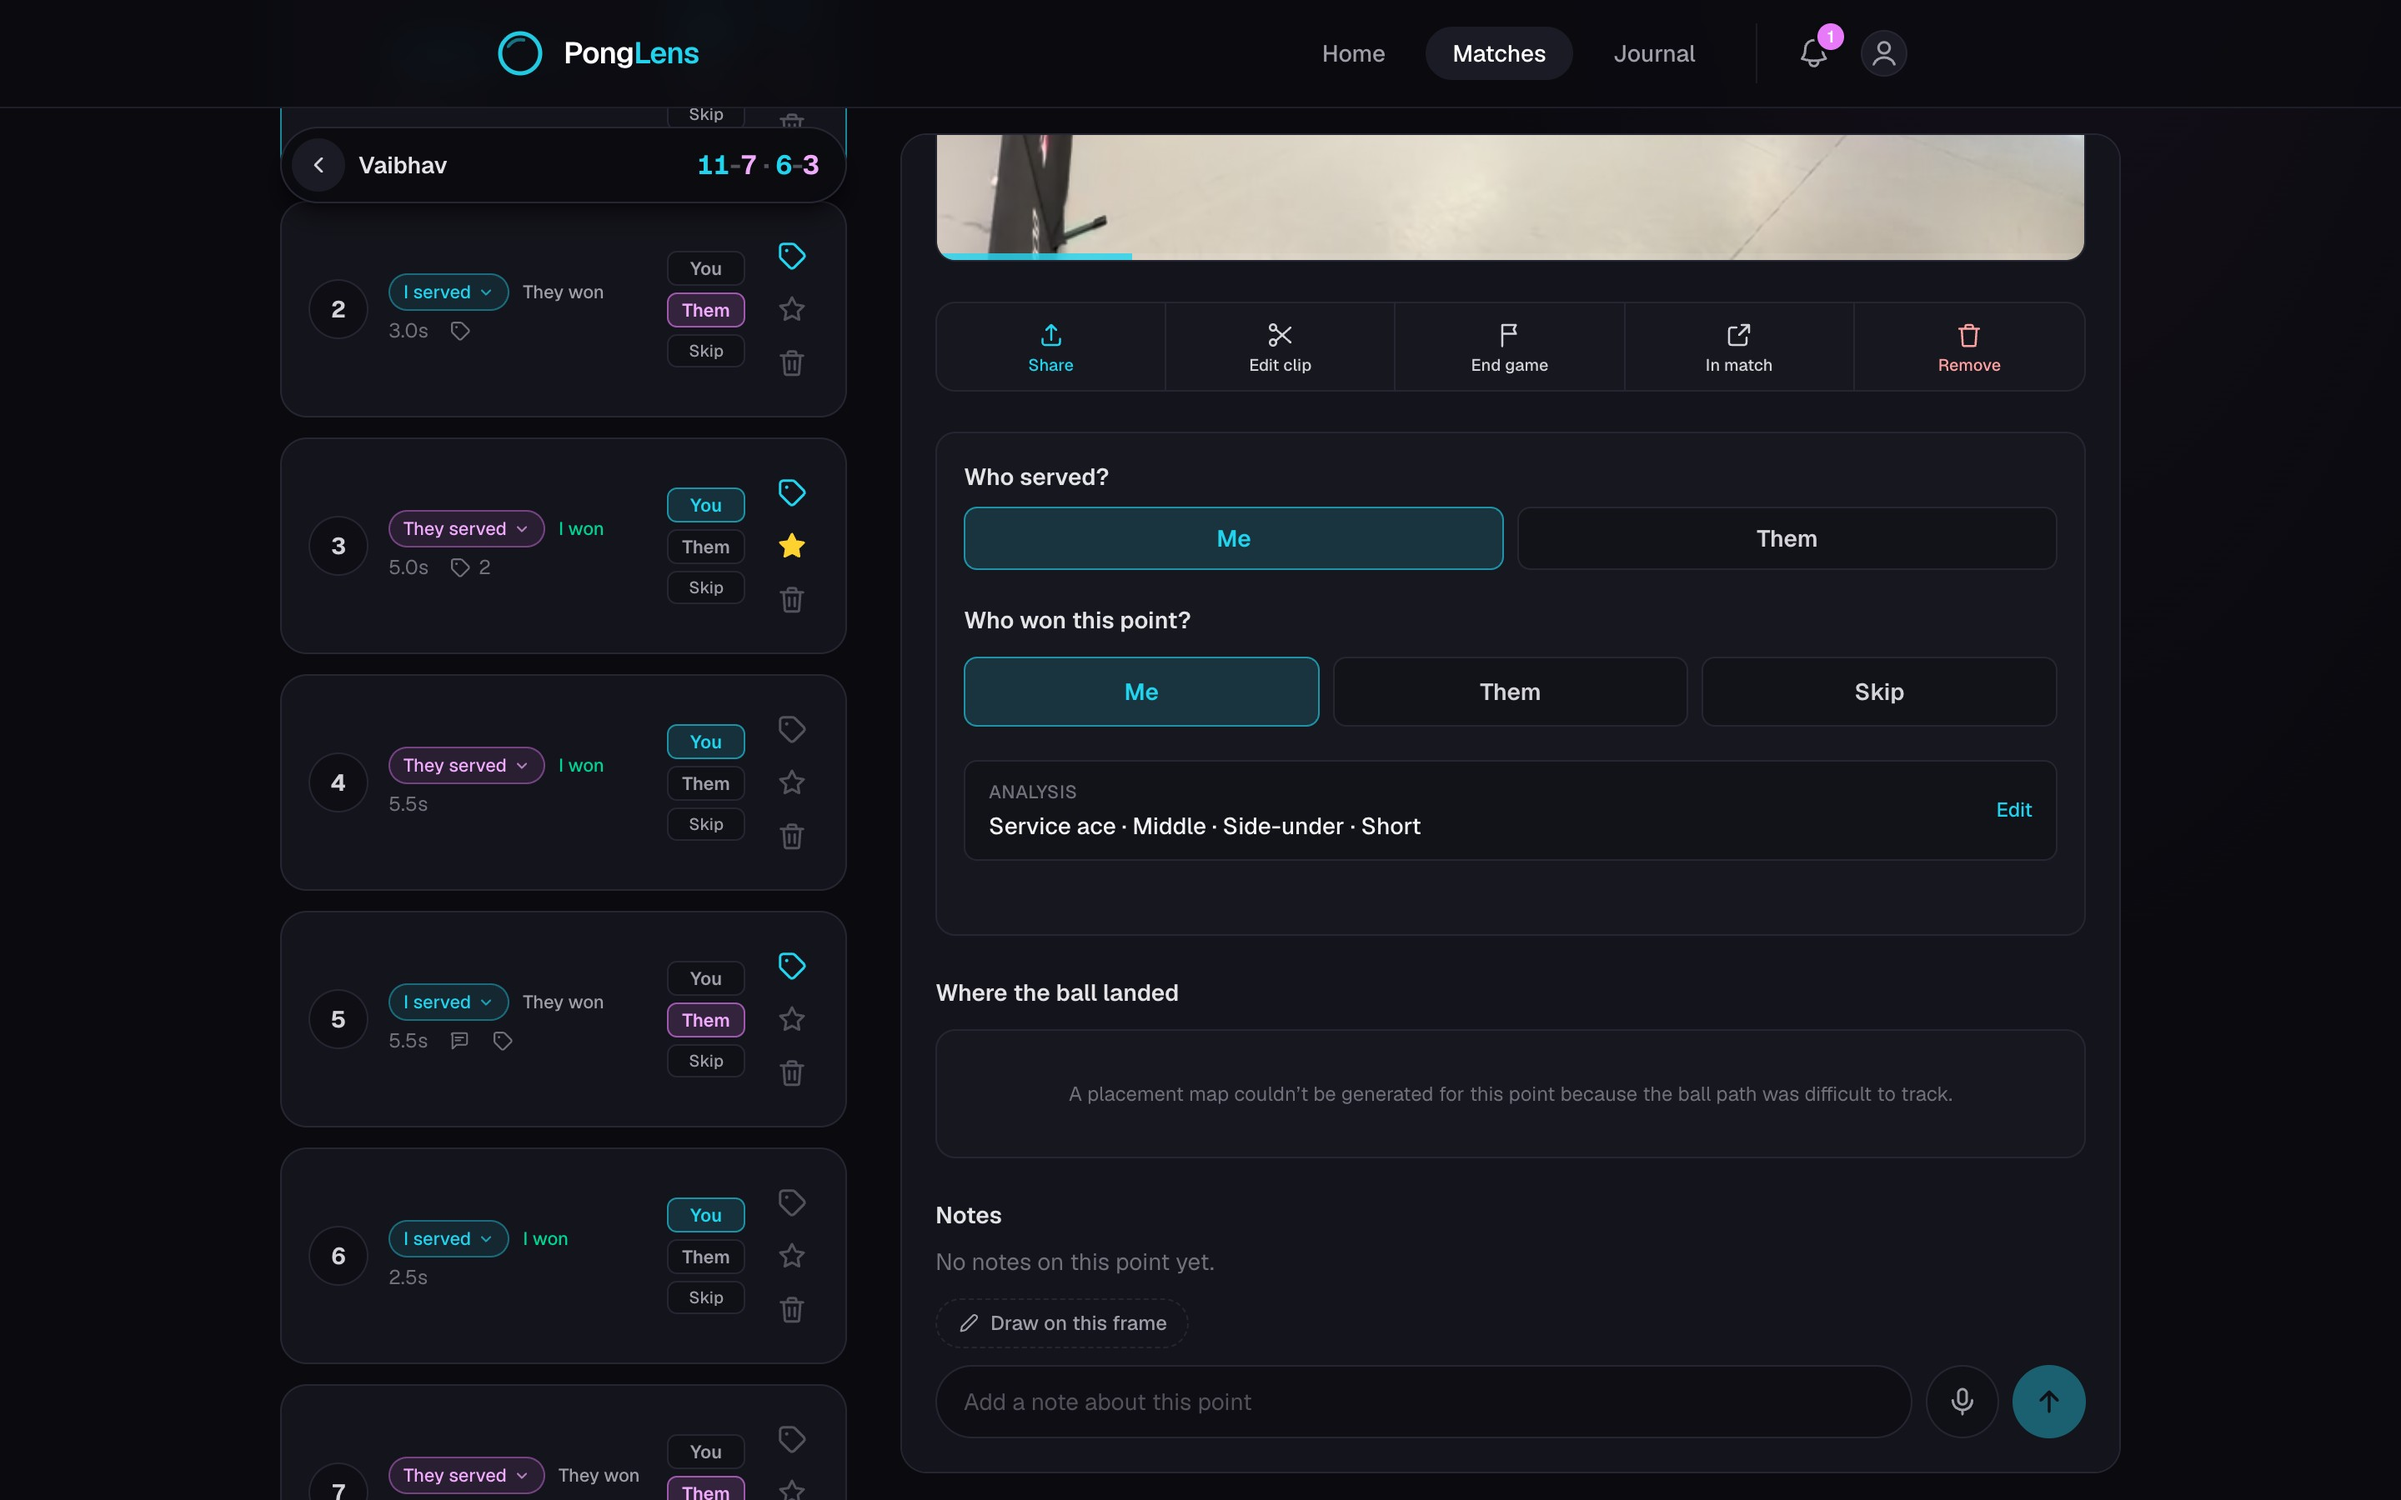
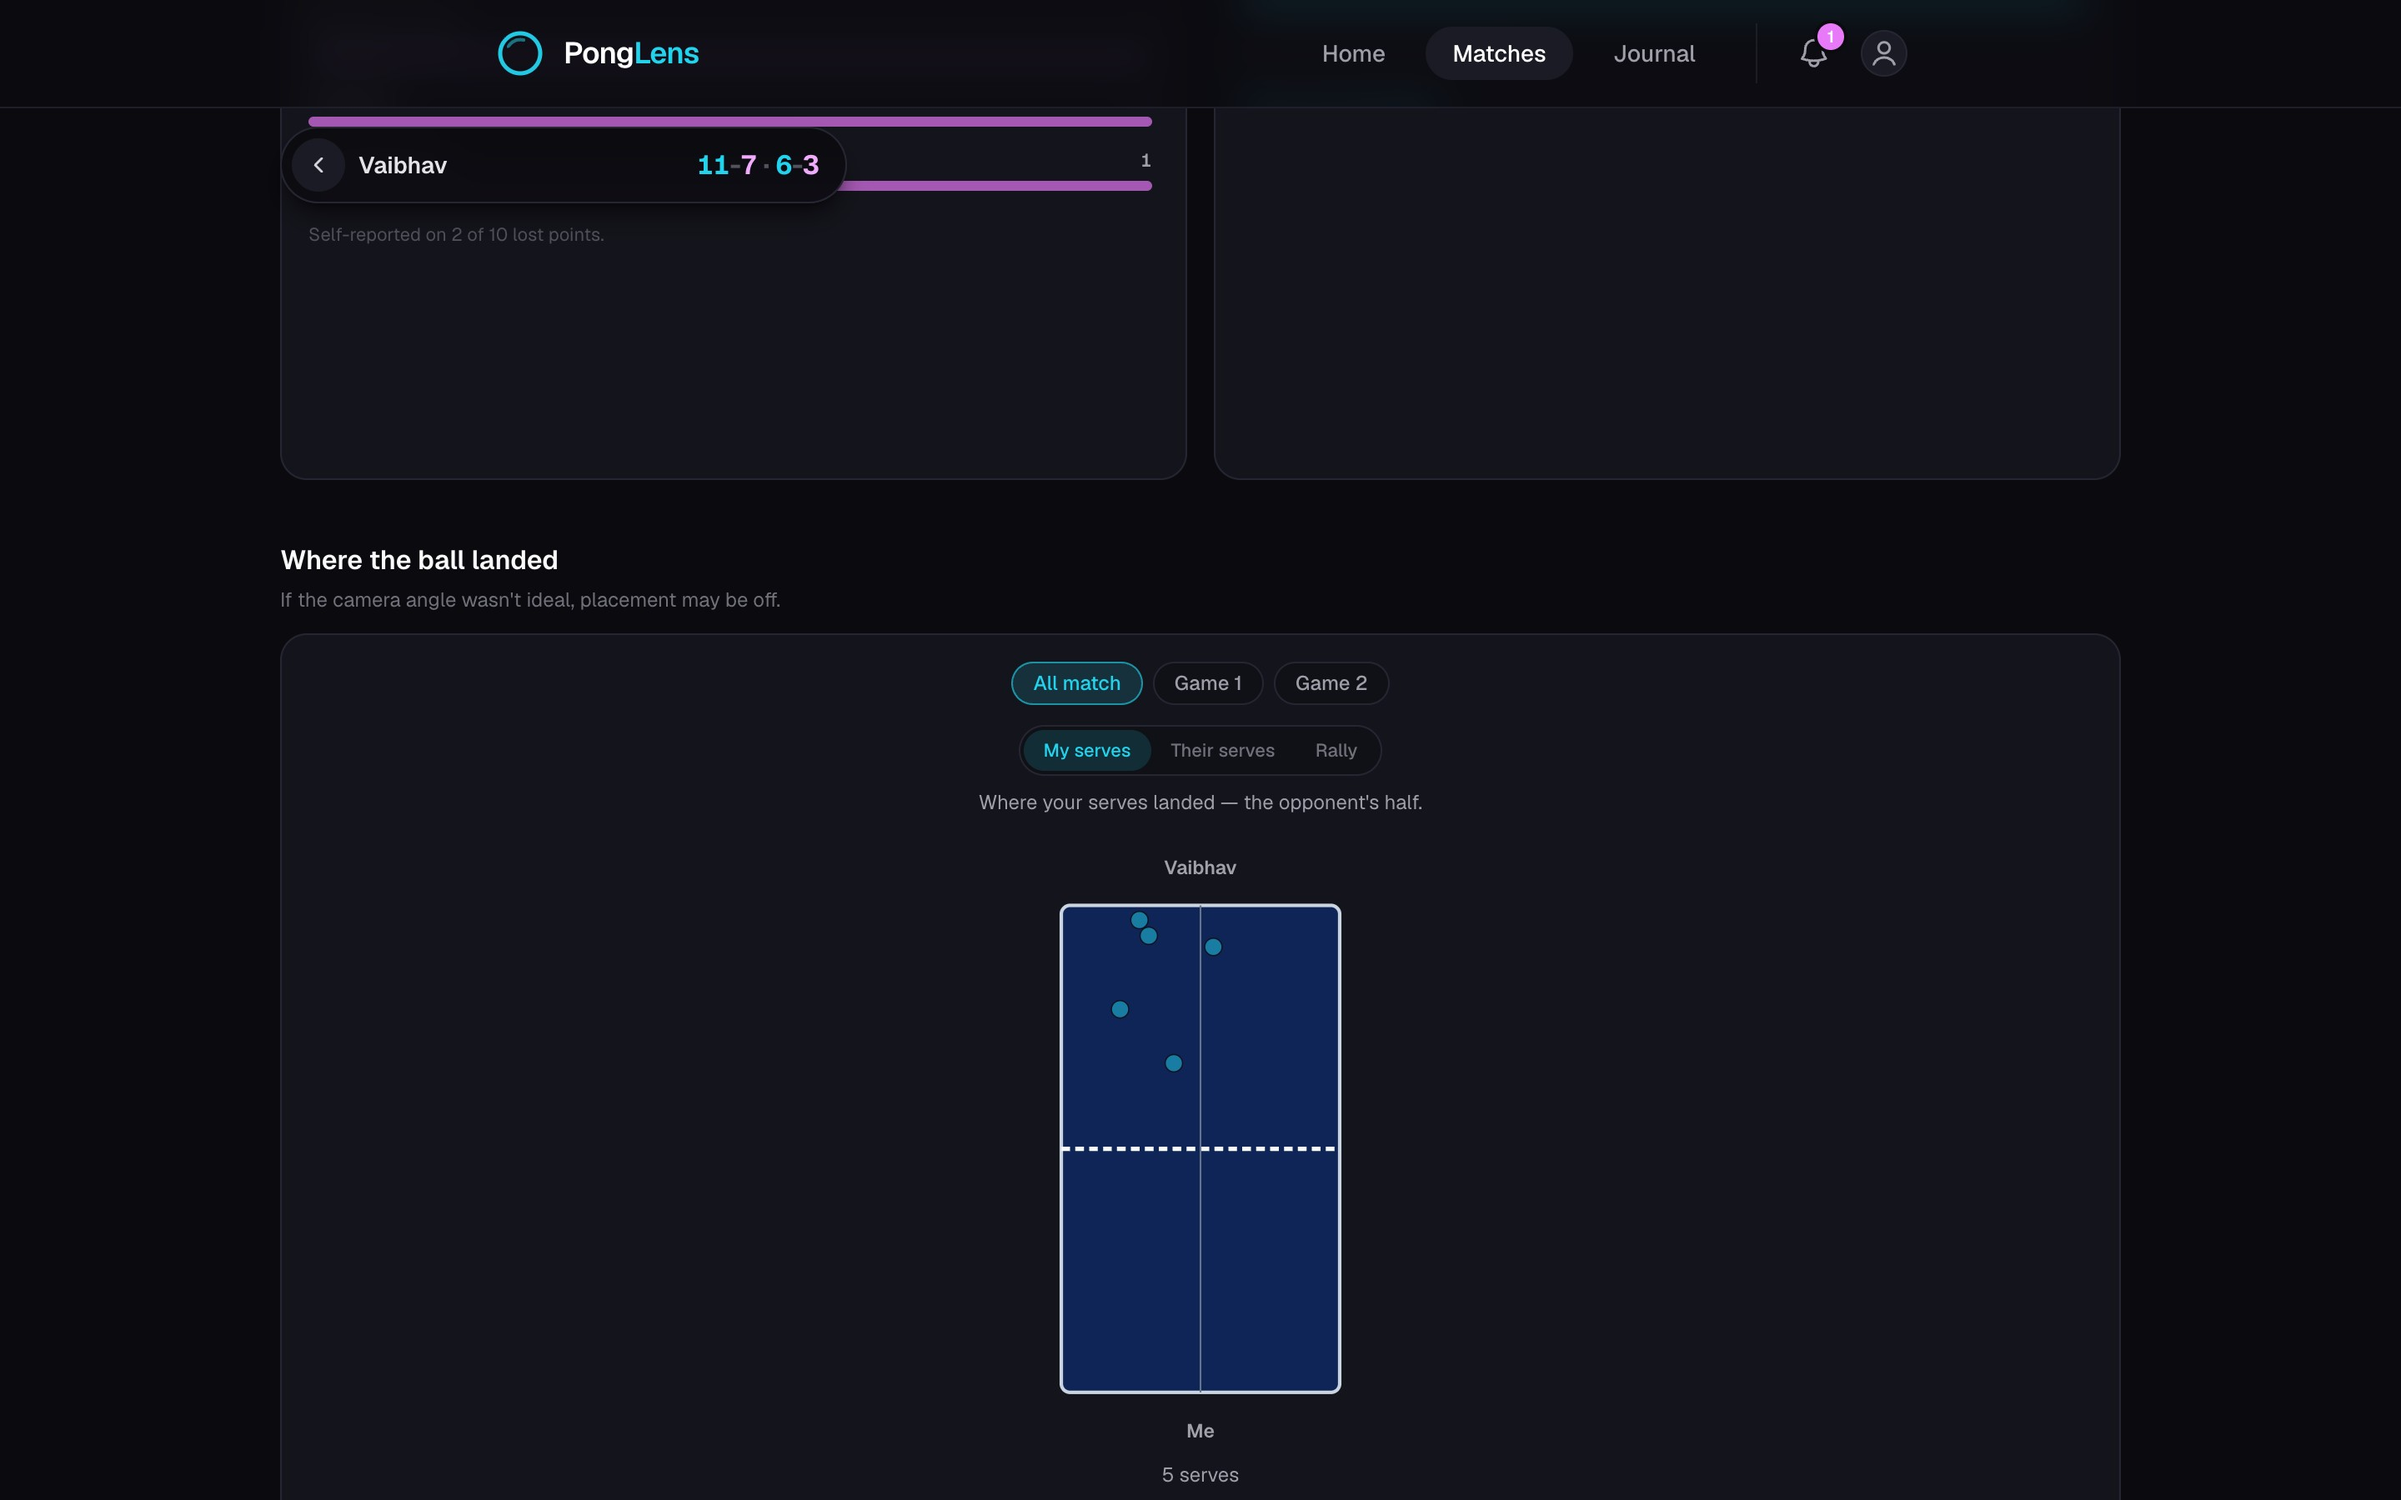
Showcase: real placement map on desktop, plainer copy, honest intro
The desktop placement shot now targets the match-level ball map (the
point pane's empty state was hijacking the text search). Step copy
lands between terse and salesy: one descriptive sentence each. The
header drops 'video studio' (half the product is the journal) for
'table tennis app' plus a four-line plain-language description.

diff --git a/src/app/showcase/page.tsx b/src/app/showcase/page.tsx
@@ -47,7 +47,10 @@ const steps: Step[] = [
   {
     title: "Upload a match",
     copy: (
-      <>Upload a video from your phone, or paste a {glow("YouTube link")}.</>
+      <>
+        Upload a recording from your phone, or import a match straight from
+        a {glow("YouTube link")}.
+      </>
     ),
     shots: [
       { src: "upload-d", kind: "d", alt: "Upload page on desktop" },
@@ -64,8 +67,9 @@ const steps: Step[] = [
     title: "Review every point",
     copy: (
       <>
-        Every point is its own clip. Add a note, or{" "}
-        {glow("draw on the frame")}.
+        Every point becomes its own clip, with the serve, the winner, and{" "}
+        {glow("notes that live right on the point")}, including frames you
+        draw on.
       </>
     ),
     shots: [
@@ -86,7 +90,10 @@ const steps: Step[] = [
   {
     title: "Keep score",
     copy: (
-      <>Tap who won each point. The {glow("score follows the video")}.</>
+      <>
+        Tap who won each point while the video plays, and the{" "}
+        {glow("scorecard builds itself")} game by game.
+      </>
     ),
     shots: [
       { src: "score-d", kind: "d", alt: "Score mode on desktop" },
@@ -97,8 +104,8 @@ const steps: Step[] = [
     title: "Share and export",
     copy: (
       <>
-        Share the match, your starred points, or a tag. Exports come with
-        the {glow("score burned in")}.
+        Share a public link to the match, your starred points, or a tag
+        collection, and export videos with the {glow("score burned in")}.
       </>
     ),
     shots: [
@@ -110,8 +117,8 @@ const steps: Step[] = [
     title: "Bring your coach",
     copy: (
       <>
-        Your coach watches your points and{" "}
-        {glow("leaves notes where it matters")}.
+        A private invite lets your coach watch every point and{" "}
+        {glow("leave notes exactly where they matter")}.
       </>
     ),
     shots: [
@@ -128,7 +135,7 @@ const steps: Step[] = [
     title: "Match statistics",
     copy: (
       <>
-        Serve, receive, and pressure points,{" "}
+        Serve and receive win rates, pressure points, and momentum,{" "}
         {glow("built from the points you score")}.
       </>
     ),
@@ -144,7 +151,12 @@ const steps: Step[] = [
   },
   {
     title: "Placement maps",
-    copy: <>Where your serves and rallies {glow("actually land")}.</>,
+    copy: (
+      <>
+        A map of where your serves, their serves, and rallies{" "}
+        {glow("land on the table")}.
+      </>
+    ),
     shots: [
       { src: "placement-d", kind: "d", alt: "Placement map on desktop" },
       {
@@ -159,8 +171,8 @@ const steps: Step[] = [
     title: "The journal",
     copy: (
       <>
-        Match notes, coaching lessons, practice, and{" "}
-        {glow("what you're working on")}.
+        Match notes, coaching lessons broken into takeaways, practice
+        entries, and the {glow("cues you're working on")}.
       </>
     ),
     shots: [
@@ -206,9 +218,17 @@ export default function ShowcasePage() {
         <section className="mx-auto max-w-5xl px-6 pb-24 pt-16 sm:pt-24">
           <h1 className="max-w-3xl text-4xl font-bold leading-tight tracking-tight sm:text-5xl">
             PongLens is a{" "}
-            <span className="text-cyan-glow">table tennis video studio</span>{" "}
-            for competitive players.
+            <span className="text-cyan-glow">table tennis app</span> for
+            competitive players.
           </h1>
+          <p className="mt-6 max-w-2xl text-lg leading-relaxed text-zinc-400">
+            Upload a match video and it comes back with the dead time removed
+            and every point cut into its own clip. Score the match, tag the
+            patterns, and draw on frames to mark what matters. Your notes,
+            coaching lessons, and stats build up in one place as you play.
+            It runs in the browser, on your phone or your laptop, and your
+            coach can join with a link.
+          </p>
 
           {/* step index — jump anywhere while presenting */}
           <nav className="mt-10 flex flex-wrap gap-x-5 gap-y-2 text-sm">
